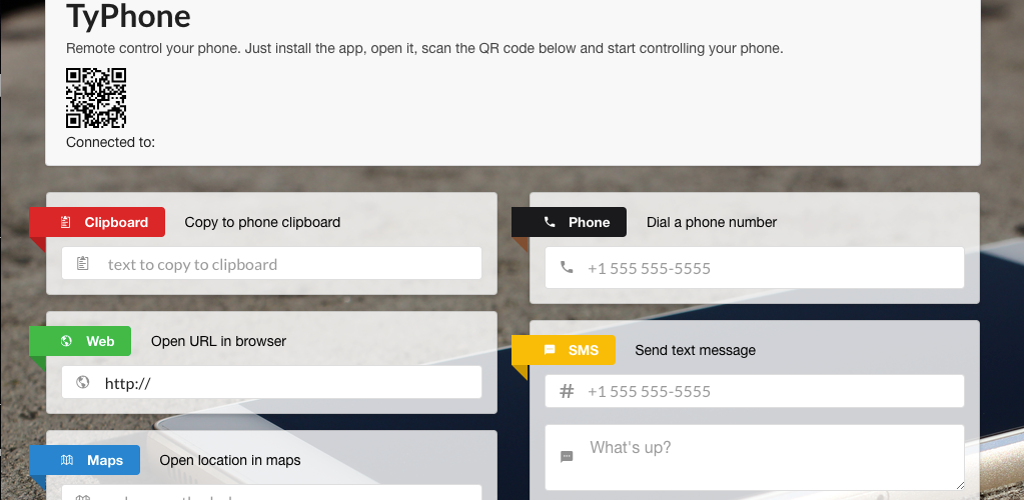
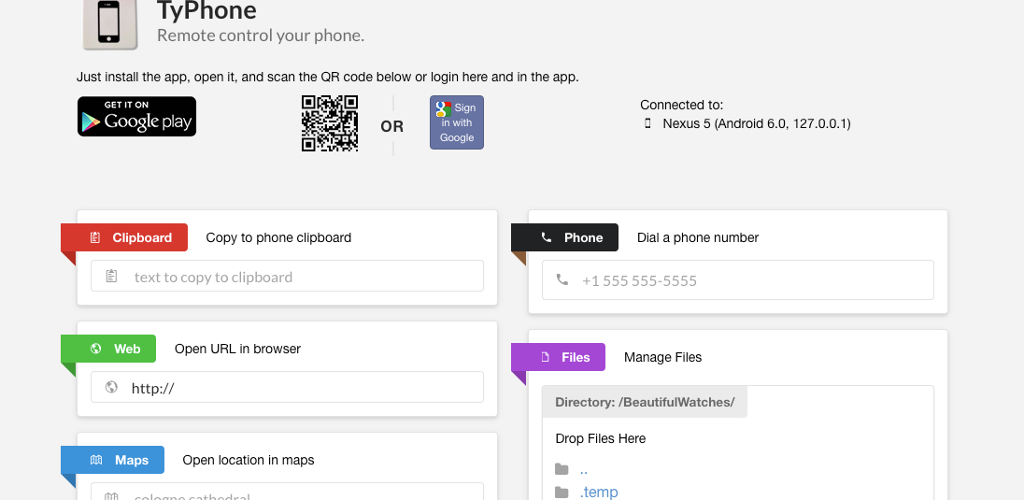
Version as committed to Apple for app review.
- mostly added images for metadata

- disabling elements when not connected to a peer

diff --git a/app/client/main.html b/app/client/main.html
@@ -85,66 +85,53 @@
           <div class="content">
             TyPhone
             <div class="sub header">
-              Remote control your phone. Just install the app, open
-              it, scan the QR code on this page, or login here and in
-              the app.
+              Remote control your phone.
             </div>
           </div>
         </h2>
+        <p>
+          Just install the app, open it, and scan the QR code below or
+          login here and in the app.
+        </p>
         
-          <!-- <div class="ui grid"> -->
-          <!--   <div class="two wide column"> -->
-          <!--     <img src="imgs/logo_hires_trans.png" -->
-          <!--          style="width: 100%"/> -->
-
-          <!--     <a href="https://play.google.com/store/apps/details?id=com.idimbn19udlnf6trycde"> -->
-          <!--       <img alt="Get it on Google Play" -->
-          <!--            src="https://developer.android.com/images/brand/en_generic_rgb_wo_45.png" /> -->
-          <!--     </a> -->
-              
-          <!--   </div> -->
-          <!--   <div class="fourteen wide column"> -->
-          <!--     <h1 class="ui header">TyPhone</h1> -->
-          <!--     <p> -->
-          <!--       Remote control your phone. Just install the app, open it, -->
-          <!--       scan the QR code on this page, or login here and in the -->
-          <!--       app. -->
-          <!--     </p> -->
-
-          <div class="ui grid">
-            <div class="four wide column">
-              <a href="https://play.google.com/store/apps/details?id=com.idimbn19udlnf6trycde">
-                <img alt="Get it on Google Play"
-                     src="https://developer.android.com/images/brand/en_generic_rgb_wo_45.png" />
-              </a>
-            </div>
-            
-            <div class="four wide column">
-              <div id="qrcode"></div>
-              {{> loginButtons}}
-            </div>
-            
-            <div class="eight wide column connections">
-              Connected to:
-              <ul>
-                {{#each connections}}
-                {{#if device}}
-                <li>
-                  <i class="icon ion-iphone"></i>
-                  {{device.model}}
-                  ({{device.platform}} {{device.version}}, {{ip}})
-                </li>
-                {{/if}}
-                {{else}}
-                Nothing.
-                {{/each}}
-              </ul>
+        <div class="ui grid">
+          <div class="four wide column">
+            <a href="https://play.google.com/store/apps/details?id=com.idimbn19udlnf6trycde">
+              <img alt="Get it on Google Play"
+                   src="https://developer.android.com/images/brand/en_generic_rgb_wo_45.png" />
+            </a>
+          </div>
+          
+          <div class="six wide column">
+            <div class="ui three column very relaxed grid">
+              <div class="column">
+                <div id="qrcode"></div>
+              </div>
+              <div class="ui vertical divider">
+                OR
+              </div>
+              <div class="column">
+                {{> loginButtons}}
+              </div>
             </div>
           </div>
-              
-            <!-- </div> -->
-          <!-- </div> -->
-        <!-- </div> -->
+          
+          <div class="six wide column connections">
+            Connected to:
+            <ul>
+              {{#each connections}}
+              <li>
+                <i class="icon ion-iphone"></i>
+                {{device.model}}
+                ({{device.platform}} {{device.version}}, {{ip}})
+              </li>
+              {{else}}
+              Nothing
+              {{/each}}
+            </ul>
+          </div>
+        </div>
+        
       </div>
     </div>
 
@@ -156,7 +143,7 @@
         <div class="ui two column doubling grid">
           <div class="column">
             
-            <div class="ui raised segment clipboard">
+            <div class="ui raised segment clipboard {{reactive 'disabled'}}">
               <div class="ui red ribbon label">
                 <i class="ion-clipboard icon"></i>
                 Clipboard
@@ -168,13 +155,14 @@
                   <input data-cmd="clipboard" type="text"
                          data-field="text"
                          class="action"
+                         {{reactive "disabled"}}
                          placeholder=" text to copy to clipboard">
                   <i class="ion-clipboard icon"></i>
                 </div>
               </div>
             </div>
 
-            <div class="ui raised segment url">
+            <div class="ui raised segment url {{reactive 'disabled'}}">
               <div class="ui green ribbon label">
                 <i class="ion-android-globe icon"></i>
                 Web
@@ -186,13 +174,14 @@
                   <input data-cmd="url"
                          data-field="text"
                          class="action"
+                         {{reactive 'disabled'}}
                          type="text" value="http://">
                   <i class="ion-android-globe icon"></i>
                 </div>
               </div>
             </div>
 
-            <div class="ui raised segment maps">
+            <div class="ui raised segment maps {{reactive 'disabled'}}">
               <div class="ui blue ribbon label">
                 <i class="ion-map icon"></i>
                 Maps
@@ -204,6 +193,7 @@
                   <input data-cmd="maps"
                          data-field="text"
                          class="action"
+                         {{reactive 'disabled'}}
                          type="text" placeholder=" cologne cathedral">
                   <i class="ion-map icon"></i>
                 </div>
@@ -211,7 +201,7 @@
             </div>
 
 
-            <div class="ui raised segment sms">
+            <div class="ui raised segment sms {{reactive 'disabled'}}">
               <div class="ui yellow ribbon label">
                 <i class="ion-android-textsms icon"></i>
                 SMS
@@ -221,6 +211,7 @@
               <div class="ui form">
                 <div class="ui fluid left icon input field">
                   <input data-field="number" type="text"
+                         {{reactive 'disabled'}}
                          placeholder="+1 555 555-5555">
                   <i class="ion-pound icon"></i>
                 </div>
@@ -229,6 +220,7 @@
                             data-field="message"
                             rows="2"
                             class="action"
+                            {{reactive 'disabled'}}
                             placeholder="What's up?"></textarea>
                   <i class="ion-android-textsms icon"></i>
                 </div>
@@ -240,7 +232,7 @@
           <!-- ........................................ -->
           
           <div class="column">
-            <div class="ui raised segment url">
+            <div class="ui raised segment tel {{reactive 'disabled'}}">
               <div class="ui black ribbon label">
                 <i class="ion-android-call icon"></i>
                 Phone
@@ -252,13 +244,14 @@
                   <input data-cmd="tel"
                          data-field="number"
                          class="action"
+                         {{reactive 'disabled'}}
                          placeholder="+1 555 555-5555">
                   <i class="ion-android-call icon"></i>
                 </div>
               </div>
             </div>
 
-            <div class="ui raised segment files">
+            <div class="ui raised segment files {{reactive 'disabled'}}">
               <div class="ui purple ribbon label">
                 <i class="ion-document icon"></i>
                 Files

diff --git a/app/client/main.js b/app/client/main.js
@@ -10,7 +10,8 @@ rtc = null;
 var reactive = {
     ls: new ReactiveVar(null),
     uploading: new ReactiveVar(false),
-    downloading: new ReactiveVar(false)
+    downloading: new ReactiveVar(false),
+    disabled: new ReactiveVar("disabled") // set to "" when active
 };
 
 var expectedFile;
@@ -326,7 +327,7 @@ Template.mobile.events({
                 sessions.push(result.text);
                 Meteor.subscribe('clipboard', result.text, device);
                 // startRTC(false, result.text);
-                startWebRTC(id);
+                startWebRTC(result.text);
             }, 
             function (error) {
                 console.log("Scanning failed: " + error);
@@ -335,7 +336,9 @@ Template.mobile.events({
     },
     'click .remove': function() {
         console.log("remove " + JSON.stringify(this));
-        Clipboard.remove(this._id);        
+        Clipboard.remove(this._id);
+        rtc.dataChannel.close();
+        rtc.peerConnection.close();
     }
 });
 
@@ -389,6 +392,11 @@ function startWebRTC(id) {
             },
             onArrayBuffer: function(data) {
                 receiveDataWeb(data);
+            },
+            onClose: function() {
+                console.log("onClose");
+                reactive.ls.set(null);
+                reactive.disabled.set("disabled");
             }
         });
     }
@@ -465,11 +473,21 @@ Template.web.helpers({
         var data = Clipboard.findOne();
         // console.log("data", data);
         if (data) {
-            return _.map(data.connections, function(conn) {
-                return { ip: conn.clientAddress,
-                         agent: conn.httpHeaders["user-agent"],
-                         device: conn.device };
-            });
+            var connections = _.reduce(data.connections, function(memo, conn) {
+                if (conn.device) {
+                    memo.push({ ip: conn.clientAddress,
+                                agent: conn.httpHeaders["user-agent"],
+                                device: conn.device });
+                }
+                return memo;
+            }, []);
+            console.log("connections", connections);
+            if (connections.length > 0) {
+                reactive.disabled.set("");
+            } else {
+                reactive.disabled.set("disabled");
+            }
+            return connections;
         }
     },
     webrtc: function() {

diff --git a/app/mobile-config.js b/app/mobile-config.js
@@ -1,7 +1,7 @@
 App.info({
   name: 'TyPhone',
   description: 'Better connect your phone and your computer (transfer files wirelessly, set clipboard, send sms, start maps, open URLs, dial phone numbers, etc.).',
-  version: '0.0.4'
+  version: '0.0.5'
 });
 
 App.icons({
@@ -9,6 +9,7 @@ App.icons({
     'android_mdpi': 'public/imgs/logo_hires_trans.png',
     'android_hdpi': 'public/imgs/logo_hires_trans.png',
     'android_xhdpi': 'public/imgs/logo_hires_trans.png',
-    'iphone': 'public/imgs/logo_hires_trans.png',
+    'iphone': 'public/imgs/logo_hires_trans_76x76.png',
+    'iphone_2x': 'public/imgs/logo_hires_trans_120x120.png',
     'ipad': 'public/imgs/logo_hires_trans.png'
 });

diff --git a/app/client/webrtc.js b/app/client/webrtc.js
@@ -87,6 +87,12 @@ WebRTC = class {
         // sendChannel.binaryType = 'arraybuffer';
         // sendChannel.send(data); // example
 
+        sendChannel.onclose = function(event) {
+            if (handlers.onClose) {
+                handlers.onClose(event);
+            }            
+        }
+        
         if (isCaller) {
             // make offer
             pc.createOffer(function(description) {
